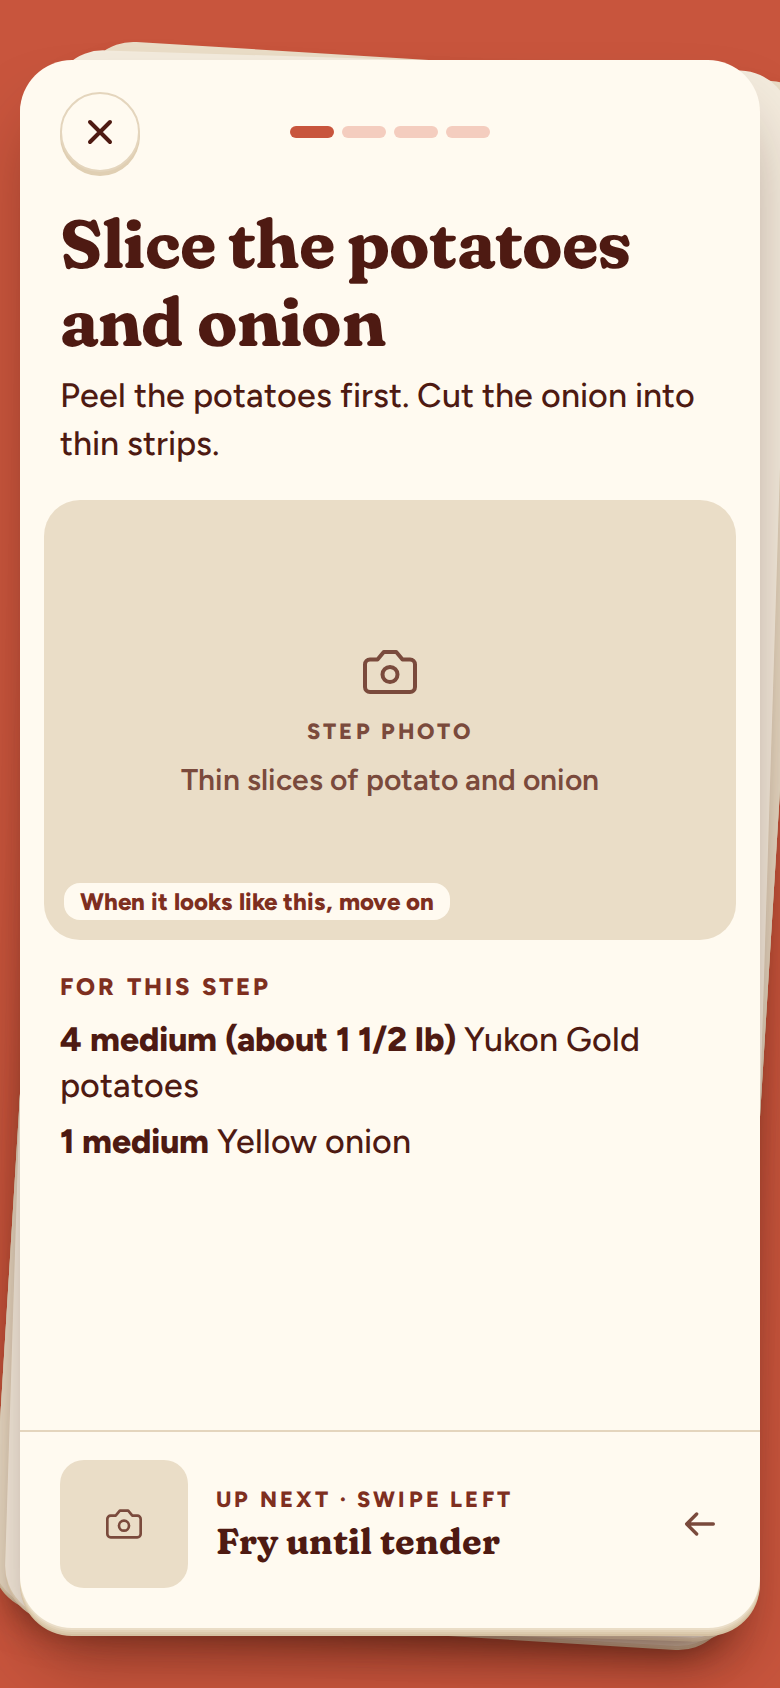
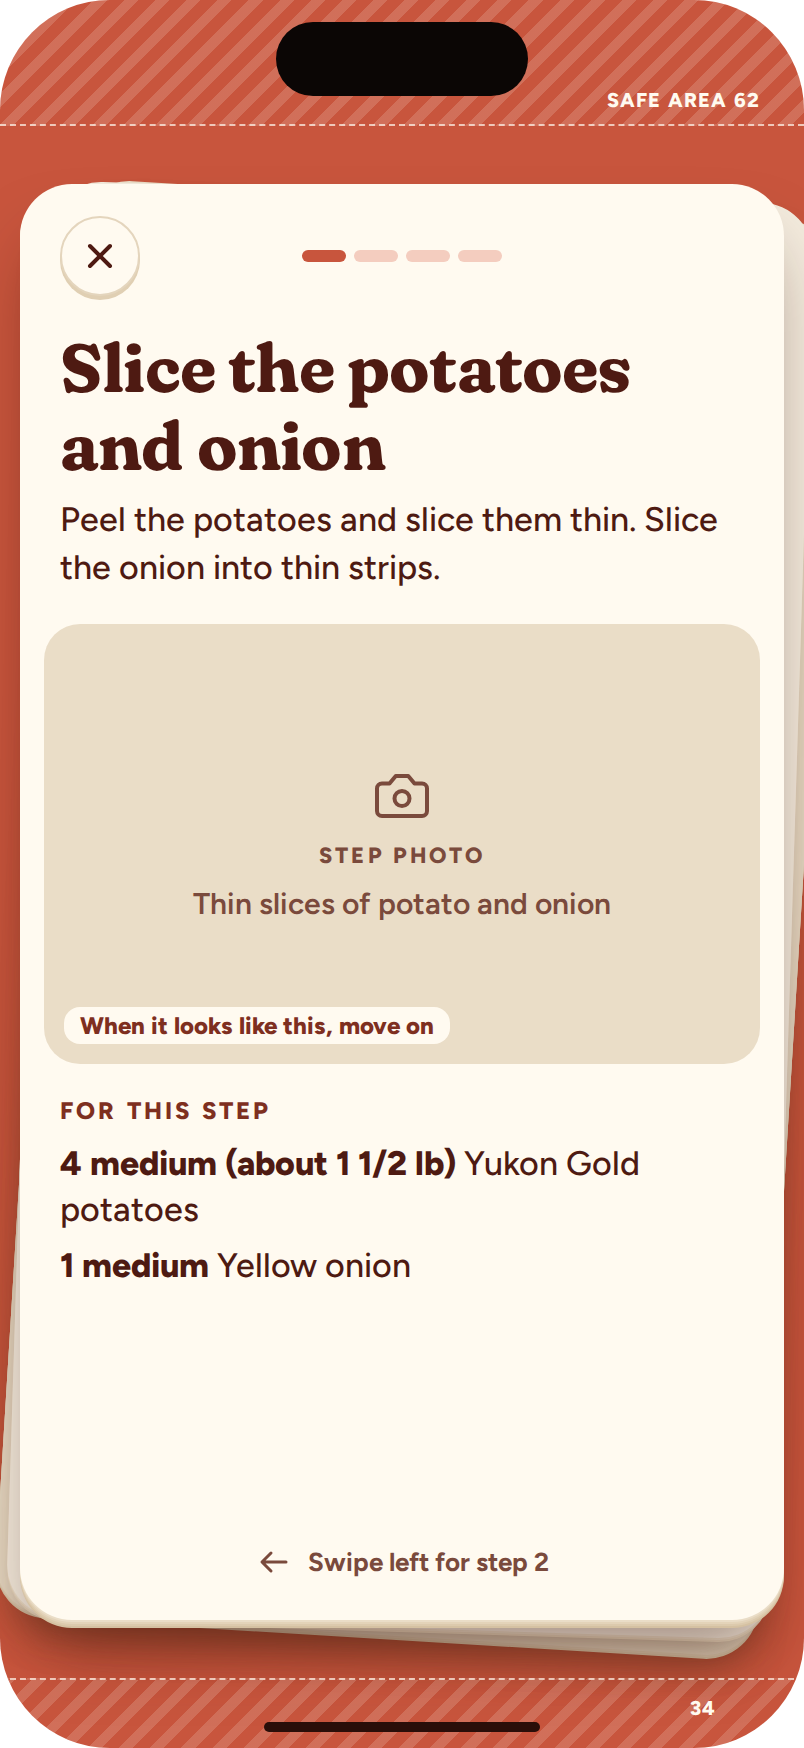
docs: fit the cooking session on a real phone (#101)
Signed off round E: boards measured on an iPhone 17 with its safe areas,
no Up next (a fading swipe hint on Paso 1), the outcome moves to a finish
card after the last Paso, and an explicit order for what gives way when a
Paso does not fit (free space, then the media window 220 -> 160 pt, then
a signalled scroll), plus the behaviour at accessibility text sizes.
Re-exports the cooking PNGs at 402 x 874 @2x and adds the finish card,
the shrunk and the AX boards.

Part of #101

diff --git a/docs/design/karta-v1.md b/docs/design/karta-v1.md
@@ -127,85 +127,165 @@ Layout rules (reference: canvas board *Reverse A centered · course on top*):
 
 ## The cooking session
 
-Signed off on 2026-10-19 by the founder. Reference: canvas page *Cooking · round 3* (four
-boards *Chosen · step 1–4*, the board *Chosen · step 3 while the step 2 timer runs*, and a
-prototype to swipe), PNGs in `docs/design/screens/`: `cooking-step-first.png` (*UP NEXT ·
-SWIPE LEFT*), `cooking-step-timer.png` (Temporizador ready), `cooking-step.png`,
-`cooking-last-step.png` and `cooking-last-step-answered.png` (technique clip, outcome before
-and after answering), and `cooking-timer-elsewhere-{running,done}.png` (a running
-Temporizador seen from another Paso, #5). On the boards of Pasos 1–3 the Foto del paso is a
-placeholder because no step photos exist yet (#104); build the window as on Paso 4. The
-*Leave cooking?* sheet has no board yet; only its text below is signed off. Product terms:
-`CONTEXT.md` → **Paso**, **Resumen**, **Detalle**, **Foto del paso**, **Cantidad**,
-**Temporizador**; ADR 0014.
+Signed off on 2026-10-19 by the founder. On 2026-10-22 (#101) the founder also signed off how a
+Paso fits on a real phone, the finish card and what gives way when a Paso does not fit. That
+round replaces the Up next row and the outcome on the last Paso of *Cooking · round 3*.
+Reference: the design canvas *Karta · Cooking fit (#101)*
+(<https://claude.ai/artifact/UHnP8RdK9jP9a1fkDeLUm5>; rounds D and E side by side, the signed
+boards are the `Signed*` artboards), plus *Cooking · round 3* in the canvas linked from #15 for
+everything this section does not change. PNGs in `docs/design/screens/`, all drawn on an iPhone
+17 (402 × 874 pt) with the safe areas hatched:
+
+| PNG | Board |
+|---|---|
+| `cooking-step-first.png` | Paso 1 with the swipe hint |
+| `cooking-step-timer.png` | Paso 2, Temporizador ready |
+| `cooking-step.png` | Paso 3 |
+| `cooking-last-step.png` | last Paso with the technique clip; the finish card peeks behind |
+| `cooking-finish.png`, `cooking-finish-answered.png` | the finish card, before and after the outcome |
+| `cooking-timer-elsewhere-{running,done}.png` | a running Temporizador seen from another Paso (#5) |
+| `cooking-step-shrunk.png` | a long Paso: the media window gives way (see *When a Paso does not fit*) |
+| `cooking-step-ax.png` | Paso 2 at Dynamic Type AX1: the card scrolls with the signal |
+
+On the boards of Pasos 1–3 the Foto del paso is a placeholder because no step photos exist yet
+(#104); build the window as on the last Paso. The *Leave cooking?* sheet has no board yet; only
+its text below is signed off. Product terms: `CONTEXT.md` → **Paso**, **Resumen**,
+**Detalle**, **Foto del paso**, **Cantidad**, **Temporizador**, **Cocinado**; ADR 0008 and 0014.
 
 Each Paso is a card the same size as the reverse, on the same suit-coloured frame. The cook
-passes them sideways like a deck.
+passes them sideways like a deck. After the last Paso comes one more card, the **finish card**.
 
 ```
- suit colour, 30 pt above and below, 10 pt at the sides
+ suit colour fills the screen, safe areas included
+ card: 30 pt inside each safe area (top, bottom), 10 pt at the sides
 ┌───────────────────────────────┐  card face, radius 26, same edge + shadow
-│ (✕)        ▬ ▬ ▭ ▭            │  ✕ + progress bar, nothing else
+│ (✕)        ▬ ▬ ▭ ▭            │  ✕ + progress bar, nothing else  (pinned)
 │ Fry until tender              │  Resumen, ≤ 36 characters, ≤ 2 lines
 │ Medium heat. They should      │  Detalle
 │ soften, not brown.            │
 │ ┌───────────────────────────┐ │
-│ │       Foto del paso       │ │  220 pt high, inset 12, radius 18
+│ │       Foto del paso       │ │  220 pt high (160 at the least), inset 12, radius 18
 │ │[When it looks like this…] │ │  label chip (or the clip's name)
 │ └───────────────────────────┘ │
 │ FOR THIS STEP                 │
 │ 4 medium Yukon Gold potatoes  │  Cantidad first, then the name
 │ 1 medium Yellow onion         │
 │                               │  ≥ 20 pt, grows with free space
-│ [ 12:00 TIMER            (▶) ]│  only on a Paso with a Temporizador
-│───────────────────────────────│
-│ [img] UP NEXT                 │  next Paso: Foto del paso + Resumen
-│       Fold the potatoes in… ← │
+│ [ 12:00 TIMER            (▶) ]│  only on a Paso with a Temporizador  (pinned)
 └───────────────────────────────┘
 ```
 
+### On the screen
+
+- **Boards are measured on the device, safe areas included.** The suit colour fills the whole
+  screen, Dynamic Island and home indicator areas too. The card sits 30 pt inside the top safe
+  area, 30 pt inside the bottom safe area and 10 pt from the sides. On an iPhone 17 that is
+  62 + 30 pt at the top and 34 + 30 pt at the bottom, so the card is 382 × 718 pt. Never check a
+  layout against a frame without safe areas (the old 390 × 844 boards): that hid the overflow of
+  #101.
+
+### The Paso card
+
 Order, top to bottom (all left-aligned on the 20 pt inner edge unless stated):
 
-- **Header** (16 pt from the top): the ✕ tactile button (as on the reverse) on the left and
-  the **progress bar** centred: one 22 × 6 pt segment per Paso, radius 3, suit `back` for done
-  and current, suit `chip` for the rest. No Course label, no "Step 2 of 4" text.
+- **Header** (16 pt from the top, pinned): the ✕ tactile button (as on the reverse) on the left
+  and the **progress bar** centred: one 22 × 6 pt segment per Paso, radius 3, suit `back` for
+  done and current, suit `chip` for the rest. No Course label, no "Step 2 of 4" text. The
+  finish card has no segment of its own.
 - **Resumen**: Fraunces 700, 34 / 39 pt, tracking −0.4, `ink`, 16 pt below the header. At most
   36 characters, so never more than two lines.
 - **Detalle**: Figtree 500, 17 / 24 pt, `ink`, 6 pt below.
-- **Media window**: 16 pt below, inset 12 pt from the card edges, 220 pt high, radius 18.
-  It always shows the Foto del paso (`object-fit: cover`). A chip at the bottom-left (10 pt
-  in; `card` fill, Figtree 800 12 pt, suit `chipInk`, radius 8) reads *When it looks like
-  this, move on*. If the Paso has a technique clip, the chip shows the clip's name and length
-  instead, and a 60 pt `card` circle with a play glyph sits in the centre: tapping it plays the
-  clip **in the same window**; when it ends, the photo returns.
+- **Media window**: 16 pt below, inset 12 pt from the card edges, 220 pt high, radius 18; it
+  gives way down to 160 pt (*When a Paso does not fit*). It always shows the Foto del paso
+  (`object-fit: cover`). A chip at the bottom-left (10 pt in; `card` fill, Figtree 800 12 pt,
+  suit `chipInk`, radius 8) reads *When it looks like this, move on*. If the Paso has a
+  technique clip, the chip shows the clip's name and length instead, and a 60 pt `card` circle
+  with a play glyph sits in the centre: tapping it plays the clip **in the same window**; when
+  it ends, the photo returns.
 - **FOR THIS STEP**: 16 pt below; eyebrow as *YOU'LL NEED* on the reverse. One row per
   ingredient, 5 pt apart: the Cantidad in Figtree 800 17 / 23, then the name in Figtree 500.
   No boxes, no leaders, no wrapping tricks: a long row simply wraps.
 - **Free space**: at least 20 pt, and it absorbs whatever is left, so the bottom zone is
   always pinned to the bottom of the card.
-- **Bottom zone**, pinned:
-  - **Temporizador** (only on a Paso that declares one): 14 pt above the line; suit `chip`
-    fill, radius 18; the time in Fraunces 900 36 pt, suit `chipInk`, tabular figures, plus
-    *TIMER* (Figtree 800 12, tracking 1.2); a 52 pt `brand` circle with a play glyph on the
-    right. Running: the remaining time, a pause button and a thin progress line. Done:
-    `brand` fill, *Time's up* and a *Stop* pill (canvas page *Cooking · round 2*, board D2).
-  - **Up next** (every Paso but the last): 1 pt `line` on top, 14 / 20 / 20 pt padding; a
-    64 pt thumbnail (the next Foto del paso, radius 12), the eyebrow *UP NEXT* (on the first
-    Paso, *UP NEXT · SWIPE LEFT*) and the next Resumen in Fraunces 700 18 / 22; a left arrow
-    on the right edge, `inkMuted`.
-  - **Last Paso**: *How did it turn out?* (Fraunces 700 22, centred) and three 68 pt tactile
-    buttons with an icon and a label: *Good*, *Not great*, *Add photo*. No emoji. After an
-    answer: a check disc, *Cooked. Enjoy it!* and **Finish** (the primary button, 56 pt),
-    which ends the session without asking.
+- **Bottom zone**, pinned, only on a Paso that declares a **Temporizador**: 20 pt from the
+  sides, 14 pt from the bottom edge; suit `chip` fill, radius 18; the time in Fraunces 900
+  36 pt, suit `chipInk`, tabular figures, plus *TIMER* (Figtree 800 12, tracking 1.2); a 52 pt
+  `brand` circle with a play glyph on the right. Running: the remaining time, a pause button
+  and a thin progress line. Done: `brand` fill, *Time's up* and a *Stop* pill (canvas page
+  *Cooking · round 2*, board D2). A Paso without a Temporizador has no bottom zone.
+- **No Up next.** The next Paso is one swipe away and already peeks behind the card. On the
+  first Paso only, a hint floats 20 pt above the bottom edge, centred, and takes no space: a
+  left arrow and *Swipe left for step 2* (Figtree 700 13, `inkMuted`). It fades out after 3 s
+  (600 ms) or on the first touch, like the deck hint (`deck.hint`).
 
-Behaviour:
+### The finish card
+
+- The card after the last Paso, same size and frame. Swiping left on the last Paso (or tapping
+  its right half) reaches it; it peeks behind the last Paso as the next Paso does. Swiping
+  right goes back to the last Paso. The ✕ works as on any Paso.
+- Header as on a Paso, with every segment of the progress bar done.
+- *How did it turn out?* in the Resumen style; below it, the recipe name in the Detalle style.
+- The recipe's Foto (not a Foto del paso), inset 12 pt, radius 18, `cover`, filling the free
+  height (160 pt at the least). No chip, no play button.
+- Bottom zone, pinned: 1 pt `line` on top, 14 / 20 / 20 pt padding, three 68 pt tactile buttons
+  with an icon and a label: *Good*, *Not great*, *Add photo*. No emoji.
+- After an answer the title becomes *Cooked. Enjoy it!* and the three buttons give way to
+  **Finish** (the primary button, 56 pt), which ends the session without asking.
+- The answer is the only explicit Cocinado (ADR 0008); a session that ends without it is left
+  to the inferred one.
+
+### When a Paso does not fit
+
+The card height comes from the screen; the content does not. When the content is taller than
+the card, things give way in this order, and only in this order:
+
+1. The free space shrinks to its 20 pt minimum.
+2. The media window shrinks from 220 pt to 160 pt. The photo stays `cover`, the chip stays at
+   the bottom-left and the play button stays centred.
+3. The body scrolls. The header and the bottom zone stay pinned and everything between them
+   scrolls under the bottom zone. Hidden content is **always** signalled:
+   - a 32 pt fade from transparent to `card` along the bottom of the scrolling area, right
+     above the bottom zone (or the card edge when there is none);
+   - a chip on the right, 16 pt in and 8 pt above that edge: suit `chip` fill, Figtree 800
+     13 pt suit `chipInk`, 32 pt high, radius 16, the chip relief of `elevation.chip` and a
+     down arrow. It reads *N more ingredients* (*1 more ingredient*) while rows of FOR THIS
+     STEP are below the edge or under the fade, and *More below* for anything else. It is a
+     button: tapping it scrolls to the next hidden row, and it never changes Paso;
+   - the scroll indicator, visible and flashed when the card appears.
+
+   The fade and the chip go away once the end of the body is reached.
+
+Never give way: the Resumen, the Detalle, any row of FOR THIS STEP (never truncated, never
+set smaller, never in columns), the 20 pt of free space when scrolled to the end, and the
+type sizes. Nothing is ever clipped without the signal.
+
+With the seed at the default text size on an iPhone 17 every Paso fits with the window at
+220 pt (Paso 2: about 90 pt free; last Paso: about 85 pt free). A Paso with a two-line
+Resumen, a three-line Detalle, six ingredients and a Temporizador fits with the window at
+166 pt (`cooking-step-shrunk.png`). The canvas measures every case live under each board.
+
+### Text size
+
+Text follows Dynamic Type, scaled relative to: Resumen, the finish-card title and the timer
+digits → `.largeTitle`; Detalle, ingredient rows and **Finish** → `.body`; *FOR THIS STEP*,
+*TIMER* and the media chip → `.caption1`; the outcome labels, the swipe hint and the signal chip
+→ `.footnote`. Buttons and circles keep their size and grow only if their label needs it.
+
+- **Up to xxxL** the rules above apply as they are.
+- **From AX1 to AX5** nothing stays pinned at the bottom: the Temporizador, and on the finish
+  card the outcome buttons (or **Finish**), move to the end of the scroll. The outcome buttons
+  stack one per row, 56 pt high, the icon left of the label. The header stays pinned. Steps 1–3
+  of *When a Paso does not fit* still apply, with the same signal (`cooking-step-ax.png`).
+
+### Behaviour
 
 - **Moving between Pasos**: swipe left for the next Paso, right for the previous one; the
-  card leaves like a card of the deck. The next one or two Pasos peek behind the front card
-  (translated 4 / 8 pt, rotated 1.8° / 3.5°, `paper` and `cardEdge[0]`); the last Paso has
-  nothing behind it. Tapping the right half of the card also advances and the left half goes
-  back; buttons (play, timer, outcome, ✕) never move between Pasos. There is no vertical
-  gesture in the session.
+  card leaves like a card of the deck. The next one or two cards peek behind the front card
+  (translated 4 / 8 pt, rotated 1.8° / 3.5°, `paper` and `cardEdge[0]`); behind the last Paso
+  peeks the finish card, and the finish card has nothing behind it. Tapping the right half of
+  the card also advances and the left half goes back; buttons (play, timer, outcome, signal
+  chip, ✕) never move between Pasos. The only vertical gesture is scrolling a card whose
+  content does not fit.
 - **Leaving**: only the ✕, and it always asks first: a sheet *Leave cooking? You're on step
   3 of 4.* with *Keep cooking* and *Leave*. Leaving ends the session for good (#34).
 - **A running Temporizador seen from another Paso**: its Paso's segment in the progress bar

diff --git a/docs/design/screens/README.md b/docs/design/screens/README.md
@@ -6,5 +6,9 @@ at 2× from the canvas. File name: `<screen>-<state>.png`, e.g.
 [`../karta-v1.md`](../karta-v1.md); when the PNG and the text disagree, the
 text wins and the PNG is re-exported in the same PR.
 
+The cooking boards (#101) are drawn on the device they will run on: an iPhone 17,
+402 × 874 pt, with the Dynamic Island and home-indicator safe areas hatched, so
+the PNGs are 804 × 1748. A board that leaves the safe areas out hides overflow.
+
 A UI issue is `ready-for-agent` only once its boards are here (`AGENTS.md` →
 *Design gate*).
